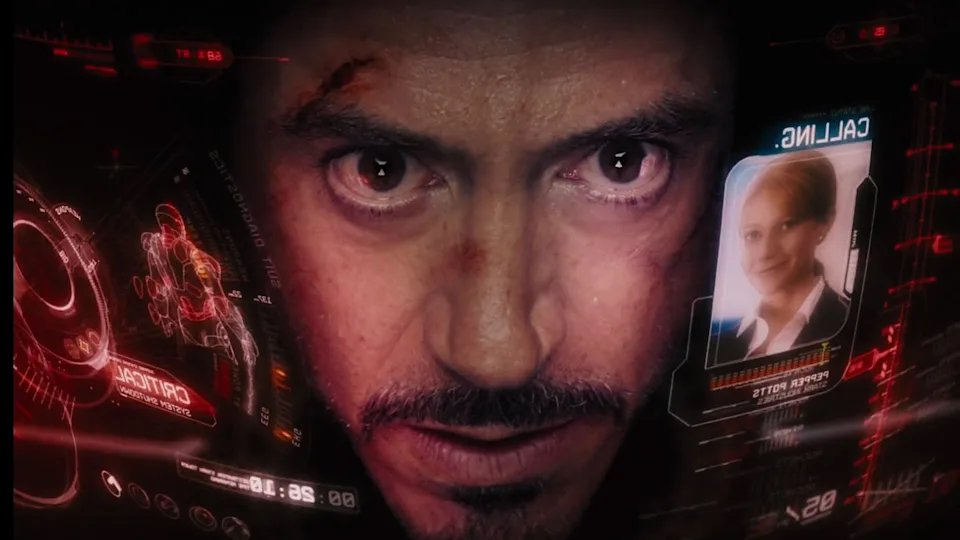
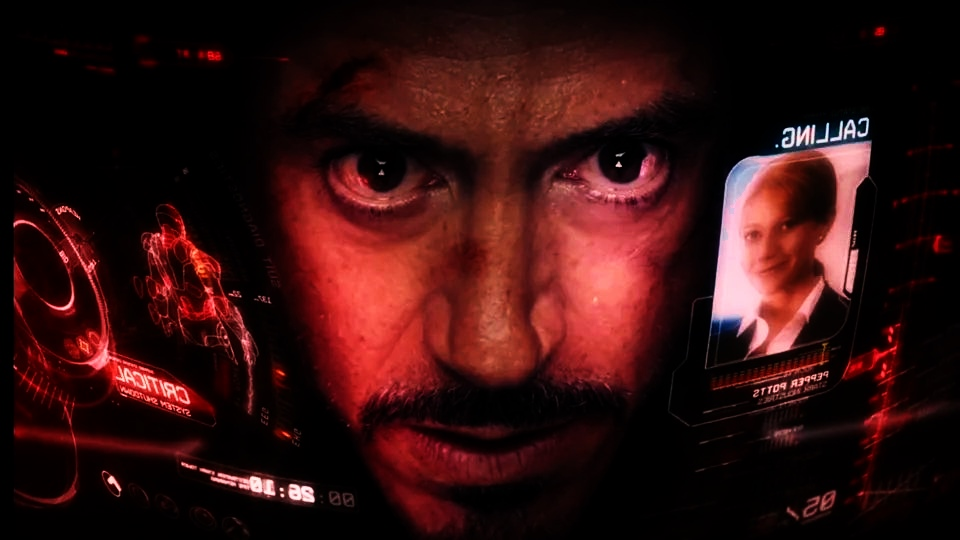
feat: high-definition tony stark helmet hud theme visual update with pepper potts hologram and targeting reticle

diff --git a/components/focus/ImmersiveFocusView.tsx b/components/focus/ImmersiveFocusView.tsx
@@ -164,10 +164,20 @@ export default function ImmersiveFocusView({
             isCleanMode ? "opacity-0 pointer-events-none -translate-y-4" : "opacity-100"
           )}
         >
-          <div className="w-20 sm:w-28 shrink-0" />
+          {/* Top Left: Stark Theme HUD telemetry or spacer */}
+          <div className="w-auto sm:w-56 shrink-0 flex items-center">
+            {theme === "stark" ? (
+              <span className="inline-flex items-center gap-2 text-[10px] sm:text-xs font-mono text-red-500/90 tracking-widest uppercase">
+                <span className="h-2 w-2 rounded-full bg-red-500 animate-ping" />
+                <span className="hidden xs:inline">HELMET HUD ENGAGED</span>
+              </span>
+            ) : (
+              <div className="w-20 sm:w-28 shrink-0" />
+            )}
+          </div>
 
-          {/* Center: Subject Pill Tag (e.g. • Editing) */}
-          <div className="flex-1 flex justify-center">
+          {/* Center: Subject Pill Tag (e.g. • Editing) + Stark JARVIS Subtitle */}
+          <div className="flex-1 flex flex-col items-center justify-center gap-1">
             <div className="inline-flex items-center gap-1.5 sm:gap-2 rounded-full border border-zinc-700/60 bg-zinc-950/70 px-3 sm:px-4 py-1 text-[11px] sm:text-xs font-semibold text-zinc-200 backdrop-blur-xl shadow-lg">
               <span
                 className="h-2 w-2 rounded-full"
@@ -181,10 +191,20 @@ export default function ImmersiveFocusView({
                 <Disc3 size={12} className="text-purple-400 animate-spin" />
               )}
             </div>
+            {theme === "stark" && (
+              <span className="text-[10px] font-mono font-bold text-red-400/90 tracking-widest hidden sm:inline-block drop-shadow-[0_0_8px_rgba(255,42,85,0.7)]">
+                J.A.R.V.I.S: TARGET ACQUIRED
+              </span>
+            )}
           </div>
 
-          {/* Top Right: Tasks Collapsed Pill OR Expanded Card */}
-          <div className="w-20 sm:w-28 shrink-0 flex justify-end items-center">
+          {/* Top Right: Tasks Collapsed Pill OR Expanded Card + Stark POWER: 100% */}
+          <div className="w-auto sm:w-56 shrink-0 flex justify-end items-center gap-3">
+            {theme === "stark" && (
+              <span className="text-[10px] sm:text-xs font-mono text-red-400 font-semibold tracking-wider hidden sm:inline-block">
+                POWER: 100%
+              </span>
+            )}
             {!tasksCardOpen ? (
               /* Sleek Collapsed Pill */
               <button
@@ -301,12 +321,29 @@ export default function ImmersiveFocusView({
 
         {/* Center: Scalable Countdown Clock & Progress Area (pointer-events-none prevents scaling box from blocking clicks) */}
         <div
-          className="relative z-10 flex flex-col items-center justify-center my-auto transition-transform duration-200 pointer-events-none"
+          className="relative z-10 flex flex-col items-center justify-center my-auto transition-transform duration-200 pointer-events-none w-full"
         >
+          {/* Stark Theme Horizontal Crosshair Laser Reticle Line */}
+          {theme === "stark" && (
+            <div className="absolute top-[38%] left-0 right-0 -translate-y-1/2 flex items-center justify-between pointer-events-none z-0 px-2 sm:px-8">
+              <div className="flex-1 flex items-center">
+                <span className="text-red-500/60 text-xs font-mono select-none">├──</span>
+                <div className="flex-1 h-[1.5px] bg-gradient-to-r from-transparent via-[#ff2e56]/90 to-[#ff2e56]/40 shadow-[0_0_10px_#ff2e56]" />
+                <span className="text-red-500/70 text-xs font-mono select-none mx-2">[</span>
+              </div>
+              <div className="w-[280px] xs:w-[340px] sm:w-[500px] md:w-[700px] shrink-0" />
+              <div className="flex-1 flex items-center">
+                <span className="text-red-500/70 text-xs font-mono select-none mx-2">]</span>
+                <div className="flex-1 h-[1.5px] bg-gradient-to-l from-transparent via-[#ff2e56]/90 to-[#ff2e56]/40 shadow-[0_0_10px_#ff2e56]" />
+                <span className="text-red-500/60 text-xs font-mono select-none">──┤</span>
+              </div>
+            </div>
+          )}
+
           {/* Huge Digital Clock styled by Theme */}
           <div
             className={cn(
-              "text-5xl xs:text-6xl sm:text-8xl md:text-9xl font-semibold tracking-tight leading-none drop-shadow-2xl select-none text-center pointer-events-auto",
+              "text-5xl xs:text-6xl sm:text-8xl md:text-9xl font-semibold tracking-tight leading-none drop-shadow-2xl select-none text-center pointer-events-auto relative z-10",
               themeConfig.fontClass,
               themeConfig.timerColor
             )}
@@ -327,7 +364,11 @@ export default function ImmersiveFocusView({
                 Paused
               </span>
             ) : (
-              <span className="text-zinc-400">Ready to focus</span>
+              <span className={cn(
+                theme === "stark" ? "text-red-300/90 font-mono tracking-wider drop-shadow-[0_0_8px_rgba(255,42,85,0.6)]" : "text-zinc-400"
+              )}>
+                Ready to focus
+              </span>
             )}
           </div>
 
@@ -363,7 +404,12 @@ export default function ImmersiveFocusView({
               <button
                 type="button"
                 onClick={() => setShowAddMinutesDropdown(!showAddMinutesDropdown)}
-                className="text-xs font-semibold text-zinc-200 underline underline-offset-4 hover:text-white transition drop-shadow"
+                className={cn(
+                  "text-xs font-semibold underline underline-offset-4 transition drop-shadow",
+                  theme === "stark"
+                    ? "text-red-300 hover:text-white decoration-red-500/60 font-mono tracking-wider"
+                    : "text-zinc-200 hover:text-white"
+                )}
               >
                 Add time
               </button>
@@ -394,19 +440,37 @@ export default function ImmersiveFocusView({
             </div>
 
             {/* Round End & Pause / Resume Action Buttons */}
-            <div className="mt-8 flex items-center justify-center gap-6 sm:gap-8">
-              {/* Round Gray End Button */}
+            <div className="mt-8 flex items-center justify-center gap-6 sm:gap-8 relative">
+              {/* Flanking HUD bracket left for Stark theme */}
+              {theme === "stark" && (
+                <div className="text-[10px] font-mono text-red-500/70 tracking-widest select-none pointer-events-none hidden xs:flex items-center gap-1.5 pr-2">
+                  <span className="text-red-500/40">|</span>
+                  <span>DLCT</span>
+                </div>
+              )}
+
+              {/* Round End Button */}
               <div className="flex flex-col items-center gap-1">
                 <button
                   type="button"
                   onClick={onFinish}
                   aria-label="End session"
                   title="End session"
-                  className="grid h-14 w-14 place-items-center rounded-full bg-zinc-800/80 text-zinc-300 hover:bg-zinc-700 hover:text-white transition active:scale-95 border border-zinc-700/60 shadow-lg"
+                  className={cn(
+                    "grid h-14 w-14 place-items-center rounded-full transition active:scale-95 shadow-lg",
+                    theme === "stark"
+                      ? "bg-zinc-900/85 text-zinc-400 hover:bg-zinc-800 hover:text-white border border-red-950/60 backdrop-blur-md shadow-[0_0_15px_rgba(0,0,0,0.8)]"
+                      : "bg-zinc-800/80 text-zinc-300 hover:bg-zinc-700 hover:text-white border border-zinc-700/60"
+                  )}
                 >
                   <X size={20} />
                 </button>
-                <span className="text-[11px] text-zinc-300 font-medium">End</span>
+                <span className={cn(
+                  "text-[11px] font-medium",
+                  theme === "stark" ? "text-zinc-400 font-mono tracking-wider" : "text-zinc-300"
+                )}>
+                  End
+                </span>
               </div>
 
               {/* Round Pause / Resume Button styled by Theme Accent */}
@@ -417,11 +481,14 @@ export default function ImmersiveFocusView({
                     onClick={onPause}
                     aria-label="Pause session"
                     title="Pause session"
-                    className="grid h-16 w-16 place-items-center rounded-full text-white transition active:scale-95 shadow-xl hover:opacity-90"
-                    style={{
+                    className={cn(
+                      "grid h-16 w-16 place-items-center rounded-full text-white transition active:scale-95 shadow-xl hover:opacity-95 hover:scale-105",
+                      theme === "stark" && "shadow-[0_0_35px_rgba(255,46,86,0.85)] bg-gradient-to-br from-[#ff3b5c] to-[#e11d48]"
+                    )}
+                    style={theme !== "stark" ? {
                       backgroundColor: themeConfig.accentColor,
                       boxShadow: `0 8px 24px ${themeConfig.accentColor}55`,
-                    }}
+                    } : undefined}
                   >
                     <Pause size={24} fill="currentColor" />
                   </button>
@@ -431,19 +498,33 @@ export default function ImmersiveFocusView({
                     onClick={onStart}
                     aria-label="Resume session"
                     title="Resume session"
-                    className="grid h-16 w-16 place-items-center rounded-full text-white transition active:scale-95 shadow-xl hover:opacity-90"
-                    style={{
+                    className={cn(
+                      "grid h-16 w-16 place-items-center rounded-full text-white transition active:scale-95 shadow-xl hover:opacity-95 hover:scale-105",
+                      theme === "stark" && "shadow-[0_0_35px_rgba(255,46,86,0.85)] bg-gradient-to-br from-[#ff3b5c] to-[#e11d48]"
+                    )}
+                    style={theme !== "stark" ? {
                       backgroundColor: themeConfig.accentColor,
                       boxShadow: `0 8px 24px ${themeConfig.accentColor}55`,
-                    }}
+                    } : undefined}
                   >
                     <Play size={24} fill="currentColor" className="ml-1" />
                   </button>
                 )}
-                <span className="text-[11px] text-zinc-300 font-medium">
+                <span className={cn(
+                  "text-[11px] font-medium",
+                  theme === "stark" ? "text-zinc-300 font-mono tracking-wider" : "text-zinc-300"
+                )}>
                   {running ? "Pause" : "Resume"}
                 </span>
               </div>
+
+              {/* Flanking HUD bracket right for Stark theme */}
+              {theme === "stark" && (
+                <div className="text-[10px] font-mono text-red-500/70 tracking-widest select-none pointer-events-none hidden xs:flex items-center gap-1.5 pl-2">
+                  <span>ADVD</span>
+                  <span className="text-red-500/40">|</span>
+                </div>
+              )}
             </div>
           </div>
         </div>

diff --git a/components/focus/ThemeAtmosphere.tsx b/components/focus/ThemeAtmosphere.tsx
@@ -1,5 +1,6 @@
 "use client";
 import React from "react";
+import Image from "next/image";
 import { cn } from "@/lib/cn";
 import type { FocusTheme } from "@/lib/wallpapers";
 
@@ -39,20 +40,6 @@ export default function ThemeAtmosphere({ theme, isCleanMode = false }: Props) {
           <div className="absolute top-[38%] left-0 right-0 h-[1.5px] bg-gradient-to-r from-transparent via-[#ff2a55]/65 to-transparent blur-[0.5px] animate-pulse pointer-events-none" />
           <div className="absolute top-[38%] left-0 right-0 h-[10px] bg-gradient-to-r from-transparent via-[#ff2a55]/20 to-transparent blur-[6px] pointer-events-none" />
 
-          {/* Top HUD Telemetry Banner */}
-          {!isCleanMode && (
-            <div className="absolute top-14 sm:top-16 left-0 right-0 flex justify-between px-4 sm:px-12 text-[10px] sm:text-xs font-mono text-red-400/90 tracking-widest pointer-events-none">
-              <span className="flex items-center gap-2">
-                <span className="h-2 w-2 rounded-full bg-red-500 animate-ping" />
-                MARK VII // HELMET HUD ENGAGED
-              </span>
-              <span className="hidden sm:inline text-rose-300 font-bold">
-                J.A.R.V.I.S: TARGET ACQUIRED
-              </span>
-              <span className="text-red-400 font-semibold">POWER: 100%</span>
-            </div>
-          )}
-
           {/* Left HUD Telemetry: Diagnostic Suit Wireframe & Targeting Arc */}
           {!isCleanMode && (
             <div className="hidden lg:flex absolute left-8 top-1/2 -translate-y-1/2 flex-col items-start gap-4 text-red-500/90 font-mono select-none pointer-events-none animate-fade-in">
@@ -64,6 +51,22 @@ export default function ThemeAtmosphere({ theme, isCleanMode = false }: Props) {
                   <span className="block text-red-300 font-extrabold">DIAGNOSTIC</span>
                   <span className="block text-[8px] text-red-500/80">SUIT // MARK VII</span>
                   <span className="block text-[11px] font-black text-rose-400 mt-1">ARMOR 88%</span>
+                </div>
+              </div>
+
+              {/* Holographic Mark VII Armor Suit Wireframe */}
+              <div className="relative w-44 h-48 rounded-xl overflow-hidden border border-red-500/30 bg-black/60 backdrop-blur-sm p-1.5 flex items-center justify-center shadow-[0_0_20px_rgba(239,68,68,0.25)]">
+                <Image
+                  src="/themes/stark-suit-wireframe.jpg"
+                  alt="Mark VII Wireframe"
+                  width={176}
+                  height={192}
+                  unoptimized
+                  className="w-full h-full object-contain mix-blend-screen opacity-95 filter drop-shadow-[0_0_12px_rgba(255,42,85,0.7)]"
+                />
+                <div className="absolute bottom-1.5 left-2 right-2 text-[8px] font-mono text-red-400/80 flex justify-between">
+                  <span>MK-VII</span>
+                  <span>ONLINE</span>
                 </div>
               </div>
 
@@ -87,26 +90,34 @@ export default function ThemeAtmosphere({ theme, isCleanMode = false }: Props) {
           {!isCleanMode && (
             <div className="hidden lg:flex absolute right-8 top-1/2 -translate-y-1/2 flex-col items-end gap-4 text-red-500/90 font-mono select-none pointer-events-none animate-fade-in">
               {/* Holographic Pepper Potts / Jarvis Comms Card */}
-              <div className="w-56 rounded-2xl border border-red-500/60 bg-red-950/50 backdrop-blur-md p-3.5 shadow-[0_0_25px_rgba(239,68,68,0.35)] space-y-2.5">
+              <div className="w-60 rounded-2xl border border-red-500/60 bg-black/65 backdrop-blur-xl p-3.5 shadow-[0_0_30px_rgba(239,68,68,0.35)] space-y-2.5">
                 <div className="flex items-center justify-between text-[10px] font-bold text-red-300 tracking-wider pb-1.5 border-b border-red-500/40">
                   <span className="flex items-center gap-1.5">
                     <span className="h-2 w-2 rounded-full bg-red-500 animate-ping" />
                     CALLING.
                   </span>
-                  <span className="text-[9px] text-red-400">J.A.R.V.I.S</span>
+                  <span className="text-[9px] text-red-400 font-mono">J.A.R.V.I.S.5</span>
                 </div>
 
                 <div className="flex items-center gap-3">
-                  {/* Mini Hologram Avatar */}
-                  <div className="relative h-12 w-12 rounded-xl overflow-hidden border border-red-400/50 bg-black/70 shrink-0 grid place-items-center shadow-inner">
-                    <span className="text-2xl">👩💼</span>
-                    <div className="absolute inset-0 bg-red-500/15 mix-blend-color animate-pulse" />
+                  {/* Photo Hologram Avatar */}
+                  <div className="relative h-14 w-14 rounded-xl overflow-hidden border border-red-400/60 bg-black shrink-0 shadow-lg">
+                    <Image
+                      src="/themes/pepper-potts-avatar.jpg"
+                      alt="Pepper Potts"
+                      width={56}
+                      height={56}
+                      unoptimized
+                      className="w-full h-full object-cover filter contrast-110"
+                    />
+                    <div className="absolute inset-0 bg-red-500/20 mix-blend-color pointer-events-none" />
+                    <div className="absolute inset-0 bg-[radial-gradient(circle,transparent_50%,rgba(255,42,85,0.4)_100%)] pointer-events-none" />
                   </div>
 
-                  <div className="min-w-0">
+                  <div className="min-w-0 flex-1">
                     <div className="text-xs font-black tracking-wider text-white truncate">PEPPER POTTS</div>
                     <div className="text-[9px] text-red-400/90 font-semibold tracking-wider">STARK INDUSTRIES</div>
-                    <div className="text-[8px] text-emerald-400 flex items-center gap-1 mt-0.5">
+                    <div className="text-[8px] text-emerald-400 flex items-center gap-1 mt-0.5 font-medium">
                       <span className="h-1.5 w-1.5 rounded-full bg-emerald-400" />
                       SECURE AUDIO LINK
                     </div>
@@ -114,11 +125,11 @@ export default function ThemeAtmosphere({ theme, isCleanMode = false }: Props) {
                 </div>
 
                 {/* Audio frequency wave bars */}
-                <div className="flex items-end gap-1 h-4 pt-1 justify-center">
-                  {[6, 12, 16, 9, 14, 8, 15, 11, 7, 13, 10, 5, 12, 8].map((h, i) => (
+                <div className="flex items-end gap-1 h-5 pt-1 justify-center">
+                  {[6, 12, 18, 9, 14, 8, 16, 11, 7, 15, 10, 5, 13, 8].map((h, i) => (
                     <span
                       key={i}
-                      className="w-1 bg-red-400 rounded-full animate-pulse"
+                      className="w-1 bg-gradient-to-t from-red-600 to-rose-400 rounded-full animate-pulse shadow-[0_0_6px_#ff2a55]"
                       style={{
                         height: `${h}px`,
                         animationDelay: `${i * 70}ms`,

diff --git a/lib/wallpapers.ts b/lib/wallpapers.ts
@@ -163,12 +163,12 @@ export const THEMES: ThemeDefinition[] = [
     tag: "Helmet HUD",
     description: "Inside the Mark VII helmet. Tony Stark's battle-focused gaze, holographic crimson telemetry, Pepper Potts comms, and suit diagnostics.",
     fontClass: "font-mono font-black tracking-widest",
-    timerColor: "text-[#ff2a55] drop-shadow-[0_0_24px_rgba(255,42,85,0.95)]",
-    accentColor: "#ff2a55",
+    timerColor: "text-[#ff2e56] drop-shadow-[0_0_28px_rgba(255,46,86,0.95)] drop-shadow-[0_0_55px_rgba(255,46,86,0.5)]",
+    accentColor: "#ff2e56",
     bgClass: "bg-black",
     previewBg: "linear-gradient(145deg, #2b080f 0%, #080103 100%)",
     previewBorder: "border-red-500/50",
-    previewDigits: "01:25:00",
+    previewDigits: "00:30:00",
   },
   {
     id: "batman",
